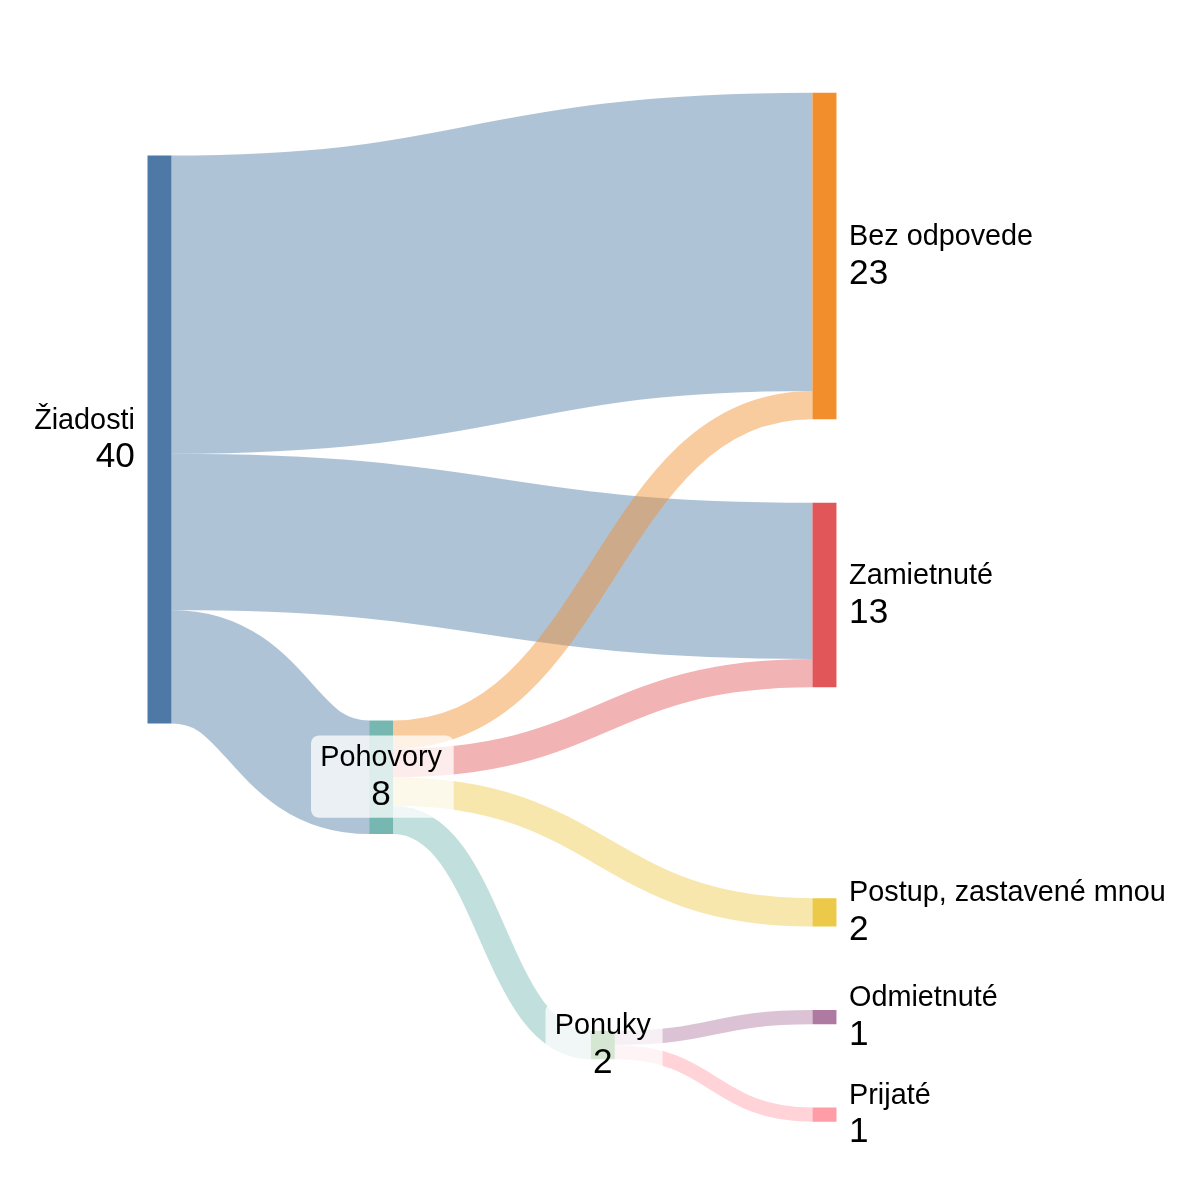
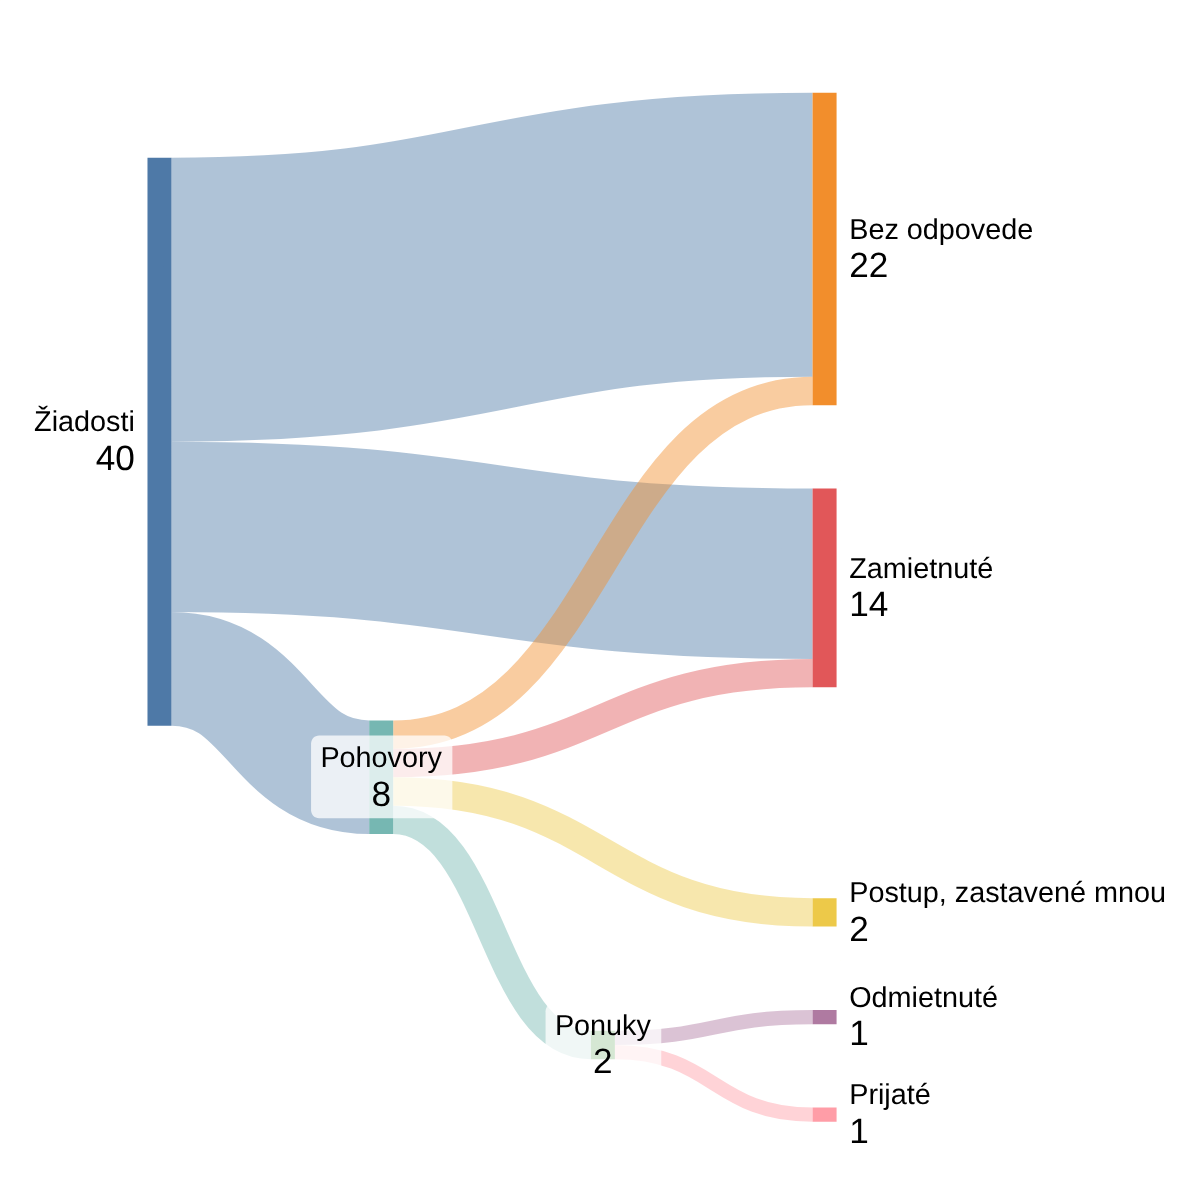
text edits, stats update, add timeline diagram

diff --git a/content/blog/job-hunting.md b/content/blog/job-hunting.md
@@ -1,7 +1,7 @@
 +++
 date = "2026-04-02"
-description = "Sumár môjho hľadania práce od prelomu rokov 2025 a 2026."
-title = "Poľovačka na prácu"
+description = "Sumár môjho zháňania práce od posledného kvartálu 2025."
+title = "Hľadanie práce"
 
 [taxonomies]
 tags=["osobné"]
@@ -10,55 +10,97 @@ tags=["osobné"]
 comment = true
 +++
 
-*Zhrnutie môjho hľadania práce od prelomu rokov 2025 a 2026*
+*Zhrnutie môjho zháňania práce od posledného kvartálu 2025.*
 
 # Východzí bod, ciele a úspešný záver
 
-V polovici októbra 2025 som sa ocitla po prvýkrát, čo som v IT, nezamestnaná a hľadala som si prácu po sabatikale. Zároveň som sa venovala DevOps bootcampu a začala som pomaly testovať vody, či moje CV niekoho zaujme. Ubehli vyše 4 roky, čo som naposledy bola na pohovore, potrebovala som zistiť, kam sa požiadavky posunuli a získať nejaké pohovory na rozohriatie. Cieľ bol nájsť si prácu ako DevOps inžinier do mája 2026, po strete s realitou som ho v polovici februára upravila na DevOps alebo QA job do tohto termínu, keďže som nechcela ostávať mimo práce dlhšie ako rok.
+V polovici októbra 2025 som sa ocitla po prvýkrát, čo som v IT, nezamestnaná a hľadala som si prácu po sabatikale. Zároveň som prechádzala DevOps bootcampom a začala som testovať vody, či moje CV niekoho zaujme. Ubehli vyše 4 roky, čo som naposledy bola na pohovore a nevenovala som ani pozornosť trhu (jediné, čo naznačovalo zmenu, bol pokles správ od recruiterov na LinkedIne). Potrebovala som zistiť, kam sa požiadavky posunuli a získať nejaké pohovory na rozohriatie. 
 
-Prvý pohovor som mala v polovici novembra 2025, aktívnejšie som začala reagovať na inzeráty od januára a priamo úmerne s neúspechom som zvyšovala obrátky. Hľadanie a príprava sa stali činnosťou na plný úväzok Nakoniec som absolvovala viac pohovorov počas pár mesiacov ako v celej doterajšej kariére. Sústredenie na DevOps a strata kontaktu s testovaním a Playwrightom na skoro rok sa trošku prejavili na QA pohovoroch, nebola som so svojím výkonom spokojná. Bolo to vyčerpávajúce a po obdržaní prvej ponuky koncom marca (a chvíli rokovania) som už mala všetkého dosť a ostatné rozbehnuté pohovory som stopla.
+Cieľ bol nájsť si prácu ako DevOps inžinier do mája 2026, po strete s realitou som ho v polovici februára upravila na DevOps alebo QA job do tohto termínu, keďže som nechcela ostávať mimo práce dlhšie ako rok.
 
-Demotivujúce bolo vidieť, ako sa recruiting sústredí na ľudí, ktorých chcú odlákať od konkurenčných firiem (akoby ihneď dostupní kandidáti neexistovali alebo neboli dosť dobrí), že inzeráty sú v prvých hodinách zavalené stovkami dokonale ušitých CV a motivačných listov (samozrejme s pomocou AI) a že LinkedIn kladie profilom s kariérnou prestávkou alebo bez aktuálnej pozície pod nohy polená vo forme menšej viditeľnosti vo vyhľadávaní, dosahov príspevkov a pod. Do toho sa ešte človek dozvedá o desaťtisícoch ľudí prepustených údajne z dôvodu AI.
+Prvý pohovor som mala v polovici novembra 2025, aktívnejšie som začala reagovať na inzeráty od januára a priamo úmerne s neúspechom som zvyšovala obrátky. Hľadanie a príprava sa stali činnosťou na plný úväzok. Nakoniec som za pár mesiacov absolvovala viac pohovorov ako v celej doterajšej kariére. Bolo to vyčerpávajúce a po obdržaní prvej ponuky koncom marca (a chvíli rokovania) som už mala všetkého dosť a ostatné rozbehnuté pohovory som zastavila. Neskôr prišla ponuka na DevOps, takže podaril sa mi aj pôvodný kúsok a presunúť sa skúsim v budúcnosti interne na novom pracovisku.
+
+{% mermaid() %}
+---
+config:
+  theme: 'base'
+  themeVariables:
+    primaryColor: '#BB2528'
+    primaryTextColor: 'rgb(215, 214, 212)'
+    secondaryColor: '#006100'
+    tertiaryColor: '#fff'
+    fontSize: '24px'
+    cScaleLabel2: 'rgb(84, 79, 72)'
+---
+timeline
+
+    section August 2025
+        4.8. : Začiatok bootcampu
+
+    section Október 2025
+        8.10. : Pokračovanie bootcampu po pauze
+        20.10. : Podanie žiadosti k prvému pohovoru
+
+    section November 2025
+        18.11. : Prvý pohovor
+
+    section December 2025
+        14.12. : Bootcamp na 95 %
+
+    section Január 2026
+        2.1. : Zvýšenie aktivity
+
+    section Február 2026
+        11.2. : Začiatok hľadania QA pozícií
+
+    section Marec 2026
+        24.3. : Obdržanie prvej ponuky
+{% end %}
+
+Demotivujúce bolo vidieť, ako sa recruiting sústredí na ľudí, ktorých chcú odlákať od konkurenčných firiem (akoby ihneď dostupní kandidáti neexistovali alebo neboli dobrí), že inzeráty sú v prvých hodinách zavalené stovkami dokonale ušitých CV a motivačných listov a že LinkedIn kladie profilom s kariérnou prestávkou alebo bez aktuálnej pozície pod nohy polená vo forme menšej viditeľnosti vo vyhľadávaní, dosahov príspevkov a pod. Do toho sa ešte človek dozvedá o desaťtisícoch ľudí prepustených údajne z dôvodu AI.
 
 # Celková štatistika
 
-Polovica žiadostí ostala bez akejkoľvek reakcie. 1/5 žiadostí viedla k pohovoru a 1/4 pohovorov priniesla ponuku, teda potrebovala som 20 žiadostí na 1 ponuku. Čo v porovnaní s priemerom udávaným na internete nie je až taký zlý výsledok.
+Polovica žiadostí ostala bez akejkoľvek reakcie. 1/5 žiadostí viedla k pohovoru a 1/4 pohovorov priniesla ponuku, čiže som potrebovala 20 žiadostí na 1 ponuku. Čo v porovnaní s priemerom udávaným na internete nie je až taká zlá štatistika. S celkovým výsledkom pohovorov tiež môžem byť spokojná, po neúspešných pokusoch na začiatku som začala postupovať ďalej.
 
 {{ image(path="sankey-sk.png" alt="Sankey graf job huntingu") }}
 
 # IT trh práce a nábor v Q4 2025/Q1 2026
 *Nasleduje sumár pozorovaní z mojich interakcií so súčasným trhom a náborovým procesom. Správa z frontu, ktorá sa môže hodiť tým, čo v ostatnej dobe sedeli v zázemí:*
 
-- **tiahle procesy**: firmy si dávajú načas, bežne sa recruiteri ozvali 2-3 týždne po poslaní CV, keď už som to ani nečakala (dokonca aj po zrejme automatickom zamietavom emaili). S pohovormi sa tiež nenaháňali a na jeden som čakala takmer 2 týždne. V jednom prípade sa konanie od podania žiadosti natiahlo na vyše 2,5 mesiaca kvôli interným zmenám vo firme. Procesy mali často 3-4 kolá, výnimkou boli košické pobočky, kde stačilo 1 kolo.
+- **tiahle procesy**: firmy si dávajú načas, bežne sa mi ozvali späť 2-3 týždne po poslaní CV, keď už som to ani nečakala (dokonca aj po zrejme automatickom zamietavom emaili). S pohovormi sa tiež neponáhľali a na jeden som čakala takmer 2 týždne. V jednom prípade sa konanie od podania žiadosti natiahlo na vyše 2,5 mesiaca kvôli interným zmenám vo firme. Procesy mali často 3-4 kolá, výnimkou boli košické pobočky, kde stačilo 1 kolo.
 
 - **komunikácia a profesionalita**: akákoľvek odpoveď je stále v menšine, aj na pozície, na ktoré som perfektne sedela. Absolvovala som jeden dosť bizarný pohovor - iba jeden pohovorujúci si zapol kameru, nikto nevidel vlastný inzerát a odpovede na moje otázky nevzbudzovali chuť pracovať pre danú firmu (asi jej páni mali sami dosť).  
 
-- **DevOps vs QA a seniorita**: cielila som na DevOps pozície (na akej som ešte nepracovala) a neskôr som doplnila QA (8+ ročná prax s automation). Pomer medzi nimi vyšiel presne 1:1 (20:20 žiadostí, 4:4 pohovorov a 1:1 ponúk). To som nečakala, keďže DevOps pozícií na juniornom konci bolo ako šafranu a musela som skúšať hlavne mid level. Všimla som si stále pomerne dosť junior QA aj čisto manuálnych testing pozícií. Viaceré senior QA pozície zaváňali skôr lead/test architect rolou. Obdobne, popis požiadaviek a náplne práce u niektorých mid QA pozícií mi bohato stačil.
+- **DevOps vs QA a seniorita**: 
+    - cielila som na DevOps pozície (na akej som ešte nepracovala) a neskôr som doplnila QA (8+ ročná prax s automatizáciou). Pomer medzi nimi vyšiel presne 1:1 (20:20 žiadostí, 4:4 pohovorov a 1:1 ponúk). To som nečakala, keďže DevOps pozícií na juniornom konci bolo ako šafranu a musela som skúšať hlavne mid level.
+    - všimla som si stále pomerne dosť junior QA aj čisto manuálnych testing pozícií. Viaceré senior QA pozície zaváňali skôr lead/test architect rolou. A obdobne, popis požiadaviek a náplne práce u niektorých mid QA pozícií mi bohato stačil.
+    - zistila som, že u zahraničných firiem sa začala objavovať rola [Quality Platform Engineer](https://aiqualityengineer.cc/from-qa-teams-to-platform-capabilities-the-evolution-of-quality-engineering-in-platform-487e828afccf) na pomedzí vývoja, DevEx a kvality ako produktu a súčasti IDP (internej vývojovej platformy)
 
-- **úlohy a technické kolá**: dostala som 2 úlohy na kódenie s 35 a 60 minútovým limitom vo fáze po podaní žiadosti (1 DevOps a 1 QA). Jeden DevOps pohovor zahŕňal malé debugovanie Kubernetes manifestu. Dva QA live kódenie. Technické kolá boli rôznej náročnosti, najťažší bol (mid) QA pohovor do zahraničnej firmy, ktorý išiel viac do hĺbky Kubernetu a Linuxu ako všetky DevOps pohovory 🙂. Čo sa týka QA, tým, že každý má za sebou iné projekty, technológie a situácie, trafiť sa do potreby a predstavy druhej strany tiež nebolo ľahké.
+- **úlohy a technické kolá**: dostala som 2 úlohy na kódenie s 35 a 60 minútovým limitom vo fáze po podaní žiadosti (1 DevOps a 1 QA). 1 DevOps pohovor zahŕňal malé debugovanie Kubernetes manifestu. 2 QA pohovory live kódenie. Technické kolá boli rôznej náročnosti, najťažší bol (mid) QA pohovor do zahraničnej firmy, ktorý išiel viac do hĺbky Kubernetu a Linuxu ako všetky DevOps pohovory 🙂. Čo sa týka QA, tým, že každý má za sebou iné projekty, technológie a situácie, trafiť sa do potreby a predstavy druhej strany tiež nebolo samozrejmé.
 
-- **iné kolá**: americké firmy bežne stavajú technické a behaviorálne pohovory pre metódu STAR a mala som aj tzv. culture fit kolo, na Slovensku som sa s týmto nestretla
+- **iné kolá**: americké firmy bežne stavajú časť technického alebo osobitné behaviorálne kolo pre [metódu STAR](https://www.jobs.cz/poradna/5-zpusobu-jak-se-vyporadat-s-behavioralnimi-otazkami/) a mala som aj tzv. culture fit kolo, na Slovensku som sa s týmto nestretla
 
-- **GitHub**: často sa radí ako pomôcka a téma na pohovore pre ľudí bez komerčnej praxe, spomenul ho len jeden pán, ktorý mi volal, že ma zachránil, lebo ma ako testera chcel vyradiť, ale ako jedna z mála som mala GH a sľúbil mi pohovor (a poznamenal, že teta z HR by si GH nebola pozrela). Na technických kolách sa nikto k projektom nevyjadril.
+- **AI**: zopár firiem hľadá testerov s AI nástrojmi ako výhodou alebo požiadavkou, nájdu sa aj inzeráty na testerov AI aplikácií, menej DevOps v súvislosti s AI. Čo sa týka AI a pohovorov, nemala som žiadne kolá s AI botom. Zopár firiem uviedlo, že žiadosti môžu byť spracovávané AI systémom, asi u jednej som videla napísaný opak, že výhradne ľuďmi, u masy zvyšných ani srnka netuší. Jedna firma mala live kódenie vymyslené tak, že prvých 15 minút bolo zakázané používať AI, potom povolené.
 
-- **AI**: zopár firiem hľadá testerov s AI nástrojmi ako výhodou alebo požiadavkou, nájdu sa aj inzeráty na testerov AI aplikácií, menej DevOps v súvislosti s AI. Čo sa týka AI v procese, nemala som žiadne kolá s AI pohovorujúcim. Zopár firiem uviedlo, že žiadosti môžu byť spracovávané AI systémom, asi u jednej som videla napísaný opak, že výhradne ľuďmi, u masy zvyšných ani srnka netuší. Jedna firma mala live kódenie vymyslené tak, že prvých 15 minút bolo zakázané používať AI, potom povolené.
+- **GitHub**: portfólio na GH sa zvykne radiť ako pomôcka a téma na pohovore pre ľudí bez komerčnej praxe, spomenul ho jeden pán, že ma zachránil, keď ma ako testera chcel vyradiť, ale ako jedna z mála som mala GH a sľúbil mi pohovor (a poznamenal, že teta z HR by si GH nebola pozrela). Na technických kolách sa nikto ku GH nevyjadril.
 
 - **menej remote príležitostí**: zaujímali ma primárne remote pozície, dosť veľa firiem na SK a v ČR však vyžaduje hybrid, stretla som sa dokonca s on-site pozíciami. Full remote sa ešte nájdu, ale všimla som si aj zahraničné firmy, ktoré umožňujú remote len v rámci vybraných krajín a SK medzi nimi často chýba.  
 
-- **pracovné portály**: Profesia je niečo strašné a konečne by potrebovala konkurenciu. LI občas zobrazí niečo relevantné (a čo sa nenachádza na Profesii), filtrovanie sťažuje kopa zle kategorizovaných inzerátov, najväčší prínos má nastavenie notifikácií na nové ponuky. Sledovala som aj české a poľské portály, ale žiadosti na B2B pozície u susedov nepriniesli ani len screening hovor, prispeli aspoň k prehľadu o finančnom ohodnotení na týchto trhoch. Napr. [Remote Rocketship](https://www.remoterocketship.com/) sa sústredí na pozície na firemných stránkach a pomáha nájsť ponuky nenachádzajúce sa na LI. Práve reakcie na pozície na neprefláknutých miestach, kde sa nehlási pol krajiny/sveta, boli úspešnejšie (v rámci SK vyzerá, že hlavná je Profesia a na LI ešte nie je taká konkurencia).
+- **pracovné portály**: Profesia je niečo strašné a konečne by potrebovala konkurenciu. LI občas zobrazí niečo relevantné (a čo sa nenachádza na Profesii), filtrovanie sťažuje kopa zle kategorizovaných inzerátov, najväčší prínos má nastavenie notifikácií na nové ponuky. Sledovala som aj české a poľské portály, ale žiadosti u susedov nepriniesli ani len screening hovor, prispeli aspoň k prehľadu o finančnom ohodnotení na týchto trhoch. Mimochodom, české platy sú nižšie, čo explicitne vidno, ak firma inzeruje pozíciu v oboch krajinách. Pri slovenskej daňovej rezidencii sa teda veľmi neoplatí hľadať v ČR. [Remote Rocketship](https://www.remoterocketship.com/) sa sústredí na remote pozície na firemných stránkach a pomáha nájsť ponuky nenachádzajúce sa na LI. Práve reakcie na pozície na neprefláknutých miestach, kde sa nehlási pol krajiny/sveta, boli úspešnejšie (v rámci SK vyzerá, že hlavná je Profesia a na LI ešte nie je taká konkurencia).
 
-- **networking**: zisťovanie u bývalých kolegov a účasť na rôznych lokálnych podujatiach nepriniesli žiadne príležitosti. Narazila som na [článok](https://ehandbook.com/stop-telling-job-seekers-that-networking-will-get-them-a-job-d490496545af), ktorý argumentuje, že v aktuálnej dobe nefunguje ani networking, napriek tomu, že sa roky pokladá za najlepší spôsob získania práce.
+- **networking**: zisťovanie u bývalých kolegov a účasť na rôznych lokálnych podujatiach nepriniesli žiadne podpultové ani iné príležitosti. Narazila som na [článok](https://ehandbook.com/stop-telling-job-seekers-that-networking-will-get-them-a-job-d490496545af), ktorý argumentuje, že v aktuálnej dobe nefunguje ani networking, napriek tomu, že sa roky pokladá za najlepší spôsob získania práce.
 
 - **fejky?** nemohla som sa ubrániť pocitu, že veľká časť pozícií je ilúziou. Stalo sa mi, že prišiel mail, že bohužiaľ, práve včera sme pozíciu obsadili a tá visí na stránke dodnes. Svetlo do situácie by mohli vniesť ľudia zvnútra firiem, či im reálne nastupujú noví kolegovia, alebo je trh naozaj takmer zamrznutý. Niektoré väčšie firmy s pobočkami vo viacerých krajinách majú otvorených presne 0 pozícií. V mojom LI feede málo vídam niekoho nastúpiť na novú pozíciu, naopak rámčekmi OpenToWork sa to zelení.
 
-- **podvody**: ľudia okolo blockchainu a nezamestnaní bývajú cieľmi hackerov, osobne som sa stretla s jedným vyslovene podozrivým čínskym účtom, ktorý sa tváril, že rozširuje QA v blockchaine, LI profil rýchlo zablokoval, ani som nestihla prejaviť nezáujem
+- **podvody**: ľudia okolo blockchainu a nezamestnaní bývajú cieľmi hackerov, osobne som sa stretla s jedným vyslovene podozrivým čínskym účtom, ktorý sa tváril, že rozširuje QA v blockchaine, LI profil rýchlo zablokoval
 
 Pozn.: pobavil inzerát českej firmy, v ktorom bolo, že nie sú ako rodina, len spolu pracujú. Mali odo mňa malé bezvýznamné plus.
 
-Dávam do pozornosti tiež tento [ebook](https://www.linkedin.com/posts/zdenekkoutsky_it-trh-v-roce-2026-manual-ugcPost-7439358346345738241-hn4f) s ďalšími postrehmi zo strany agentúry a odporúčaniami. A pre ukážku, ako sa dá so systémom vybabrať, tento [YouTube kanál](https://www.youtube.com/@sovereigndeveloper/videos) (upozornenie: na hrane etiky a za ňou).
+Dávam do pozornosti tiež tento [ebook](https://www.linkedin.com/posts/zdenekkoutsky_it-trh-v-roce-2026-manual-ugcPost-7439358346345738241-hn4f) s ďalšími postrehmi a odporúčaniami zo strany agentúry. A pre ukážku ako sa dá so systémom vybabrať, tento [YouTube kanál](https://www.youtube.com/@sovereigndeveloper/videos) (upozornenie: na hrane etiky a za ňou).
 
 # TL;DR:
 
-Ja som podcenila prvotnú časovú investíciu. Ak plánujete intenzívne hľadať prácu, rezervujte si **minimálne 1-2 mesiace**, kým sa dostanete na prvé interview a rátajte s ďalším časom na prejdenie celým procesom. Čakať za odpoveďami sa nedá, treba riešiť súvisle a paralelne viacero možností. Ak nie ste preborník v pohovoroch, budete ich potrebovať viac na oťukanie, kým niečo vyjde. O ťažkostiach juniorov na súčasnom trhu je známe, ale ani seniori nemajú na ružiach ustlané.
+Ani seniori nemajú v súčasnosti na ružiach ustlané. Ak plánujete intenzívne hľadať prácu, rezervujte si **minimálne 1-2 mesiace**, kým sa dostanete na prvé interview a rátajte s ďalším časom na prejdenie celým procesom. Čakať postupne za odpoveďami sa nedá, treba riešiť súvisle a paralelne viacero možností. Ak nie ste preborník v pohovoroch, budete ich potrebovať viac na oťukanie, kým niečo vyjde.
 
-Samozrejme, tí, čo prácu majú, len uvažujú o zmene, sú na tom lepšie, môžu postupovať tempom, aké im vyhovuje a venovať tomu vyhradený čas. Tiež sú na pohovoroch v lepšej psychologickej a vyjednávacej pozícii.
+Samozrejme, tí, čo prácu majú a uvažujú o zmene, sú na tom lepšie, môžu postupovať tempom, aké im vyhovuje a venovať tomu vyhradený čas. Tiež sú na pohovoroch v lepšej psychologickej a vyjednávacej pozícii.
